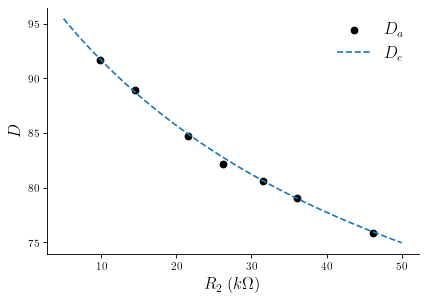
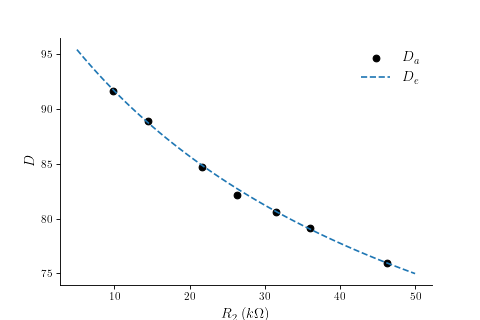
Reduce fs

diff --git a/benchmark/benchmark.py b/benchmark/benchmark.py
@@ -39,10 +39,10 @@ def main() -> None:
     expected_duty_cycles = [get_theoretical(t) for t in R2_LINSPACE]
     plt.plot(R2_LINSPACE, expected_duty_cycles, ls='--', label='$D_e$')
 
-    plt.legend(fontsize=15)
-    plt.xlabel('$R_2\ (k\Omega)$', fontsize=15)
-    plt.ylabel('$D$', fontsize=15)
-    plt.savefig(PLOT_NAME, bbox_inches='tight')
+    plt.legend(fontsize=13)
+    plt.xlabel('$R_2\ (k\Omega)$', fontsize=13)
+    plt.ylabel('$D$', fontsize=13)
+    plt.savefig(PLOT_NAME)
 
 if __name__ == '__main__':
     main()
